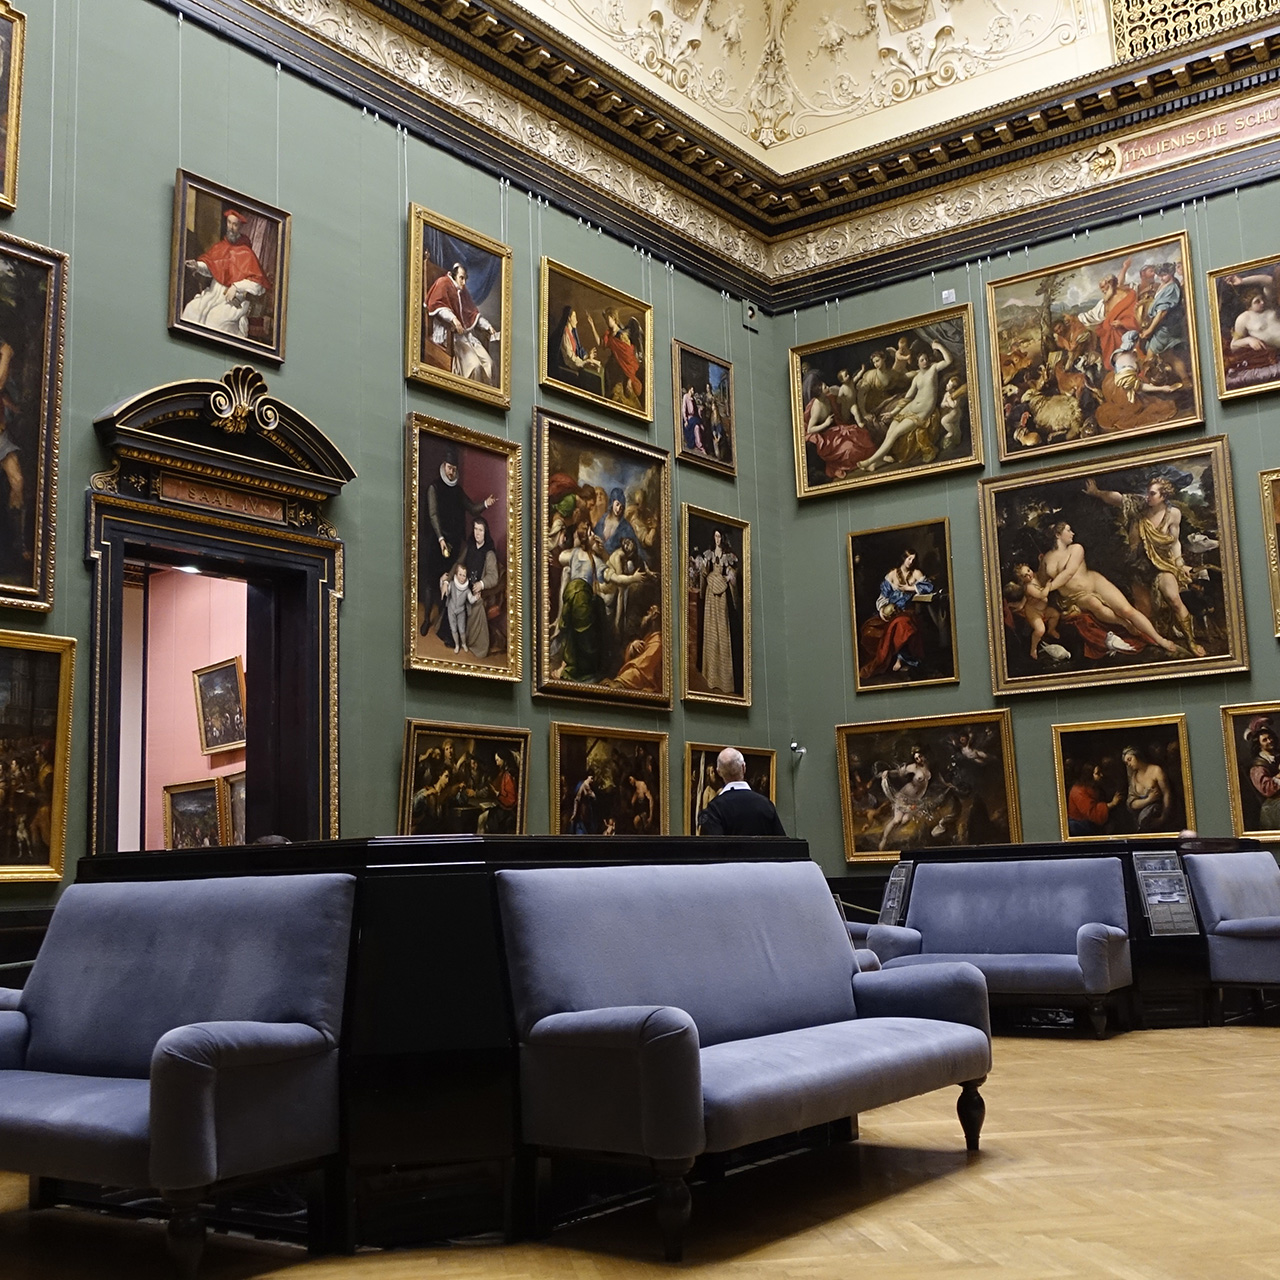
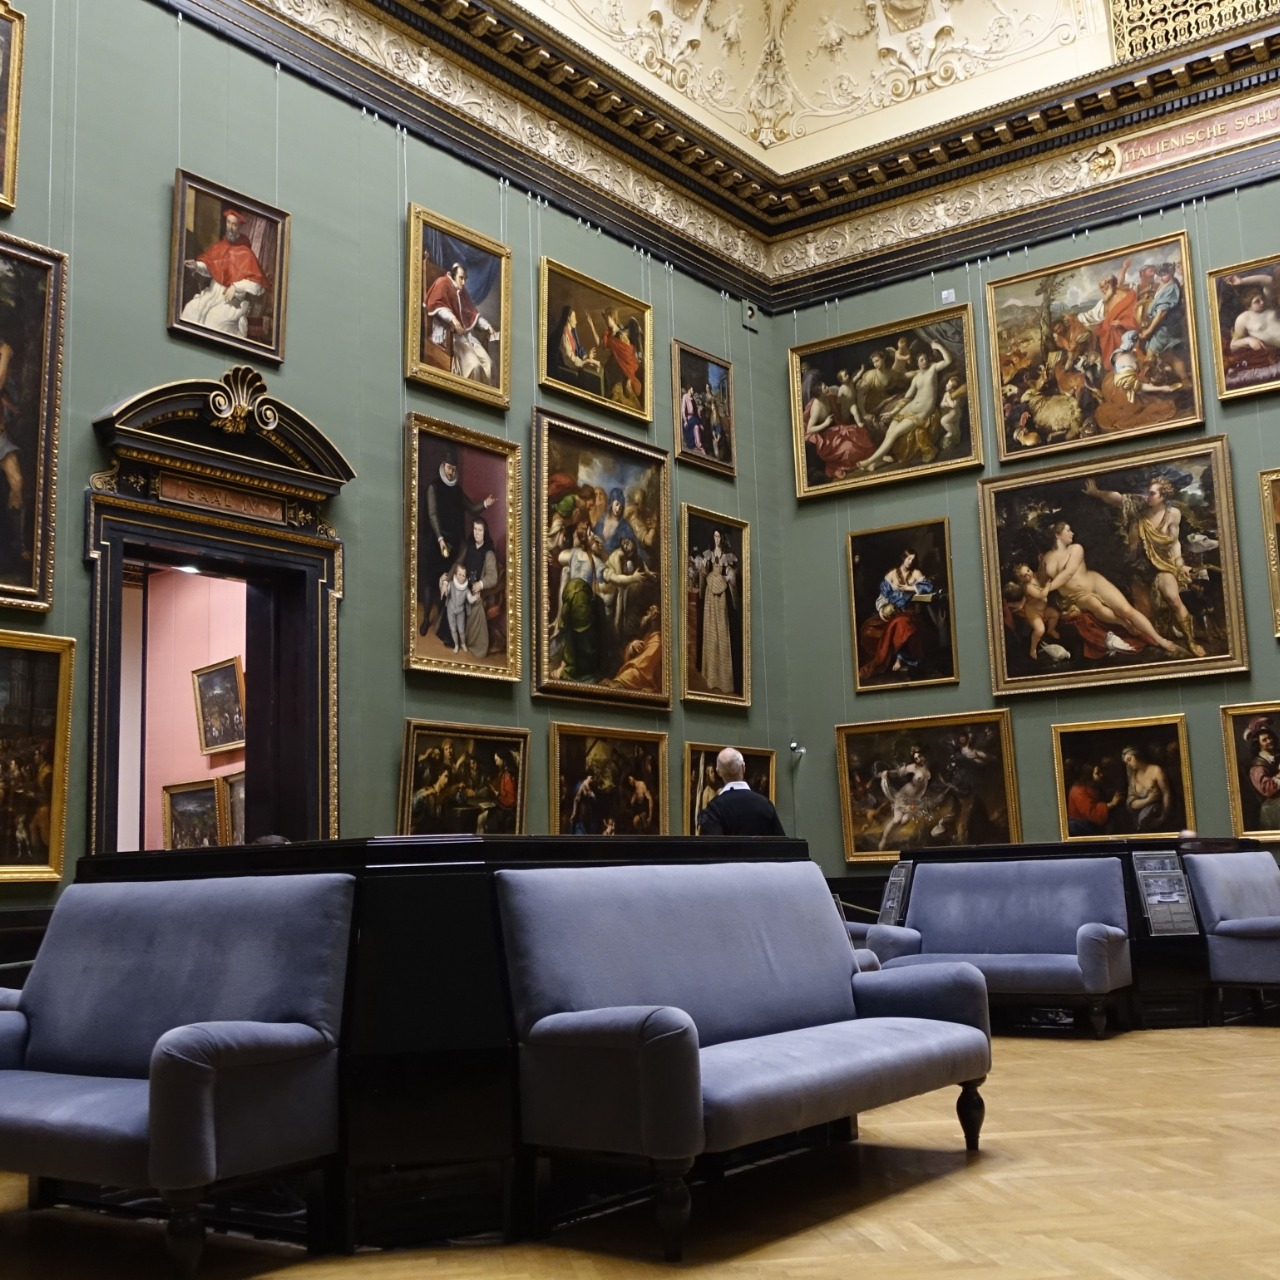
optimization of images

diff --git a/index.html b/index.html
@@ -21,7 +21,7 @@
 
 <source srcset="images/museum-640x320.jpg" media="(max-width: 640px)">
 <source srcset="images/museum-960x480.jpg" media="(max-width: 959px)">
-<source srcset="images/museum-square.jpg" media="(max-width: 960px)">
+<source srcset="images/museum-960-square.jpg" media="(max-width: 960px)">
 <source srcset="images-1280-square.jpg" media="(max-width: 1280px)">
 <img src="images/museum.jpg" alt="placeholder">
 </picture>

diff --git a/style.css b/style.css
@@ -42,4 +42,5 @@ img {
   .header {
     grid-template-columns: repeat(2, 1fr);
   }
+
 }
